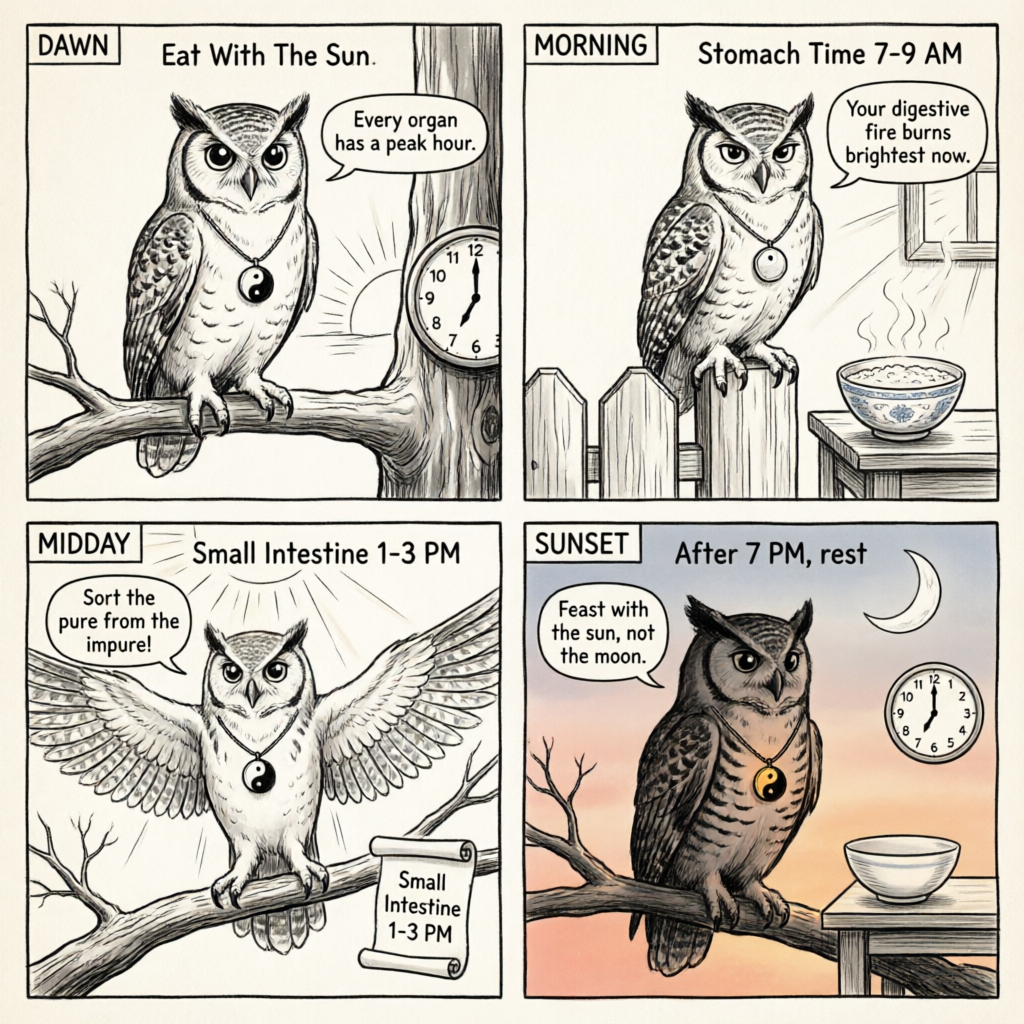
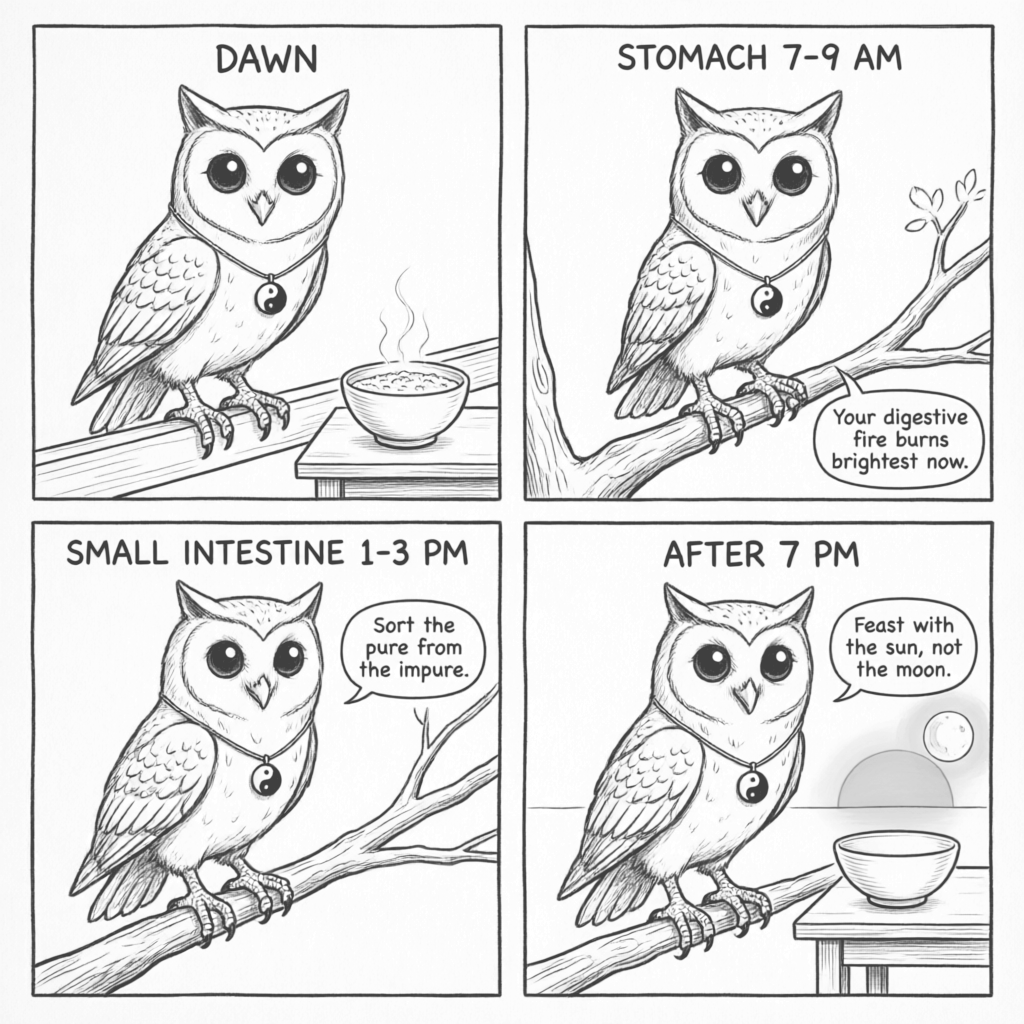
fix: #35 title+date at top, #34 h1→h2, regenerate comics #34+#35 (dark eyes, gentle expression)

diff --git a/posts/35-the-season-your-body-is-actually-in.html b/posts/35-the-season-your-body-is-actually-in.html
@@ -93,16 +93,16 @@
 </header>
 
 <article>
+<h2>The Season Your Body Is Actually In (It's Not The One On Your Calendar)</h2>
+
+<div class="meta">July 14, 2026 &middot; By Ollie</div>
+<div class="last-updated" style="color:var(--subtle);font-size:0.85rem;margin-top:0.3rem;">Last updated: July 14, 2026</div>
+
 <p>If you've been feeling extra irritable this July, find yourself snapping at loved ones, or are tossing and turning at night, I'm going to let you in on a secret: it's not the heat. It's your Heart.</p>
 
     <p>That might sound strange, but in the world of Traditional Chinese Medicine (TCM), our bodies are deeply, profoundly connected to the rhythm of the seasons. And your body doesn't run on the same calendar that's hanging on your wall.</p>
 
     <p>Our wise little mascot, Ollie the screech owl, knows something about seasons that most humans forget. We tend to think of ourselves as separate from nature, living in climate-controlled boxes. But our internal wiring, thousands of years old, is still synced to the sun, the soil, and the sky.</p>
-
-    <h2>The Season Your Body Is Actually In (It's Not The One On Your Calendar)</h2>
-
-<div class="meta">July 14, 2026 &middot; By Ollie</div>
-<div class="last-updated" style="color:var(--subtle);font-size:0.85rem;margin-top:0.3rem;">Last updated: July 14, 2026</div>
 
     <p>Let's start with a mind-bender. In TCM, the year isn't divided into four neat quarters. It's divided into five seasons: Spring, Summer, Late Summer, Autumn, and Winter.</p>
 

diff --git a/posts/34-eat-with-the-sun-the-tcm-clock-for-food.html b/posts/34-eat-with-the-sun-the-tcm-clock-for-food.html
@@ -93,7 +93,7 @@
 </header>
 
 <article>
-<h1>Eat With The Sun: The TCM Clock For Food</h1>
+<h2>Eat With The Sun: The TCM Clock For Food</h2>
 
   <div class="meta">July 10, 2026 &middot; By Ollie</div>
   <div class="last-updated" style="color:var(--subtle);font-size:0.85rem;margin-top:0.3rem;">Last updated: July 10, 2026</div>
